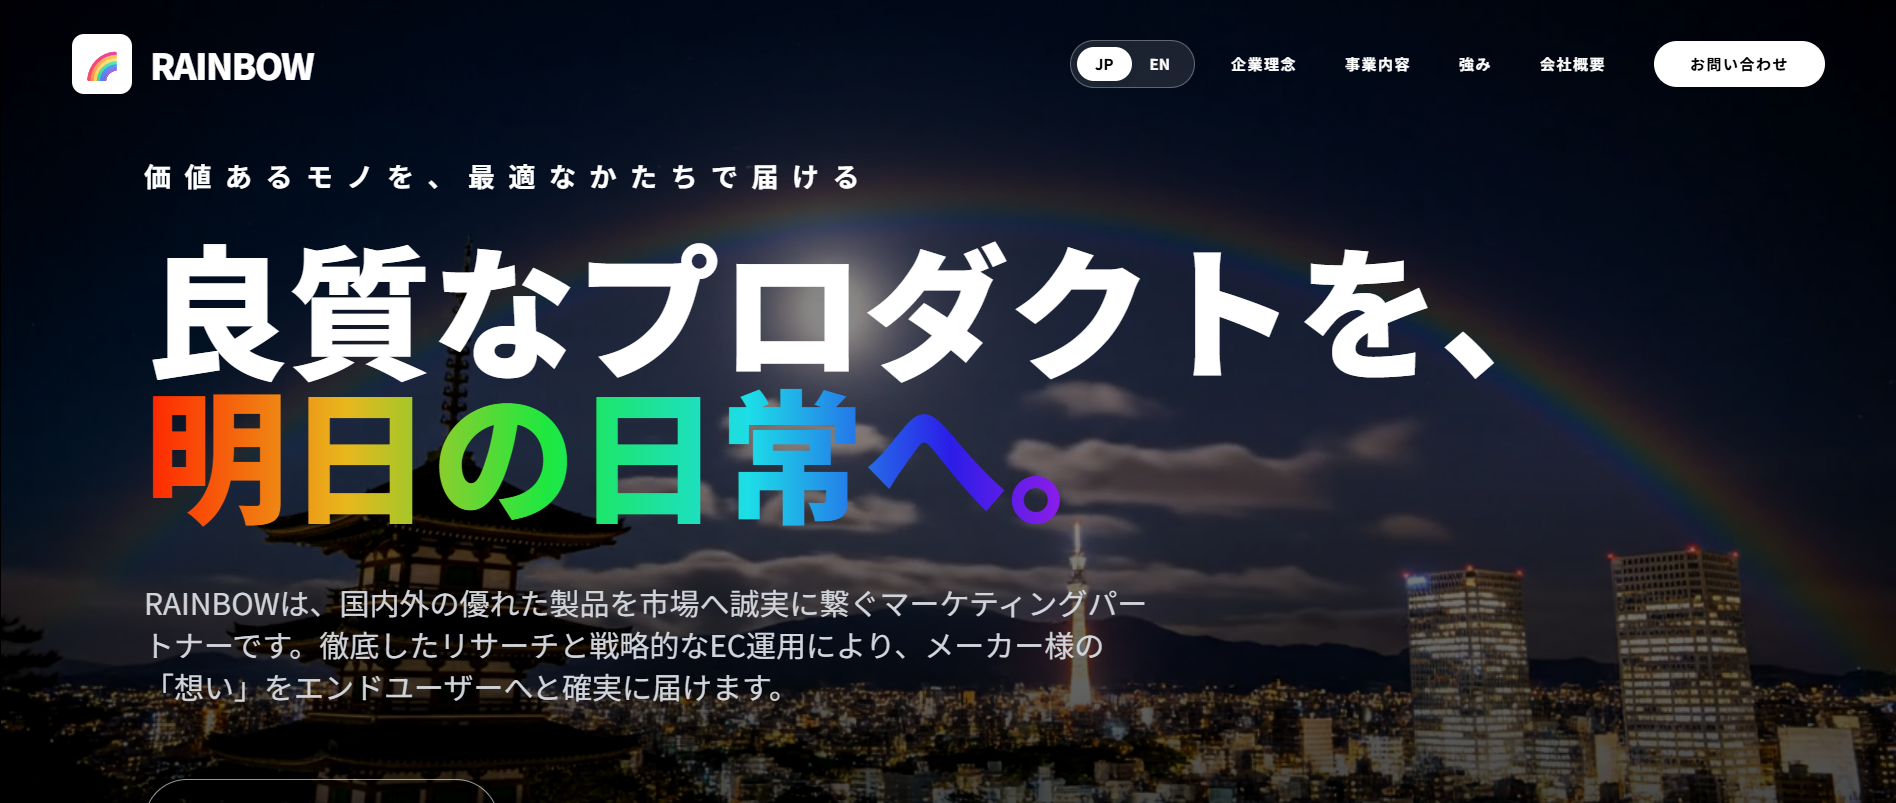
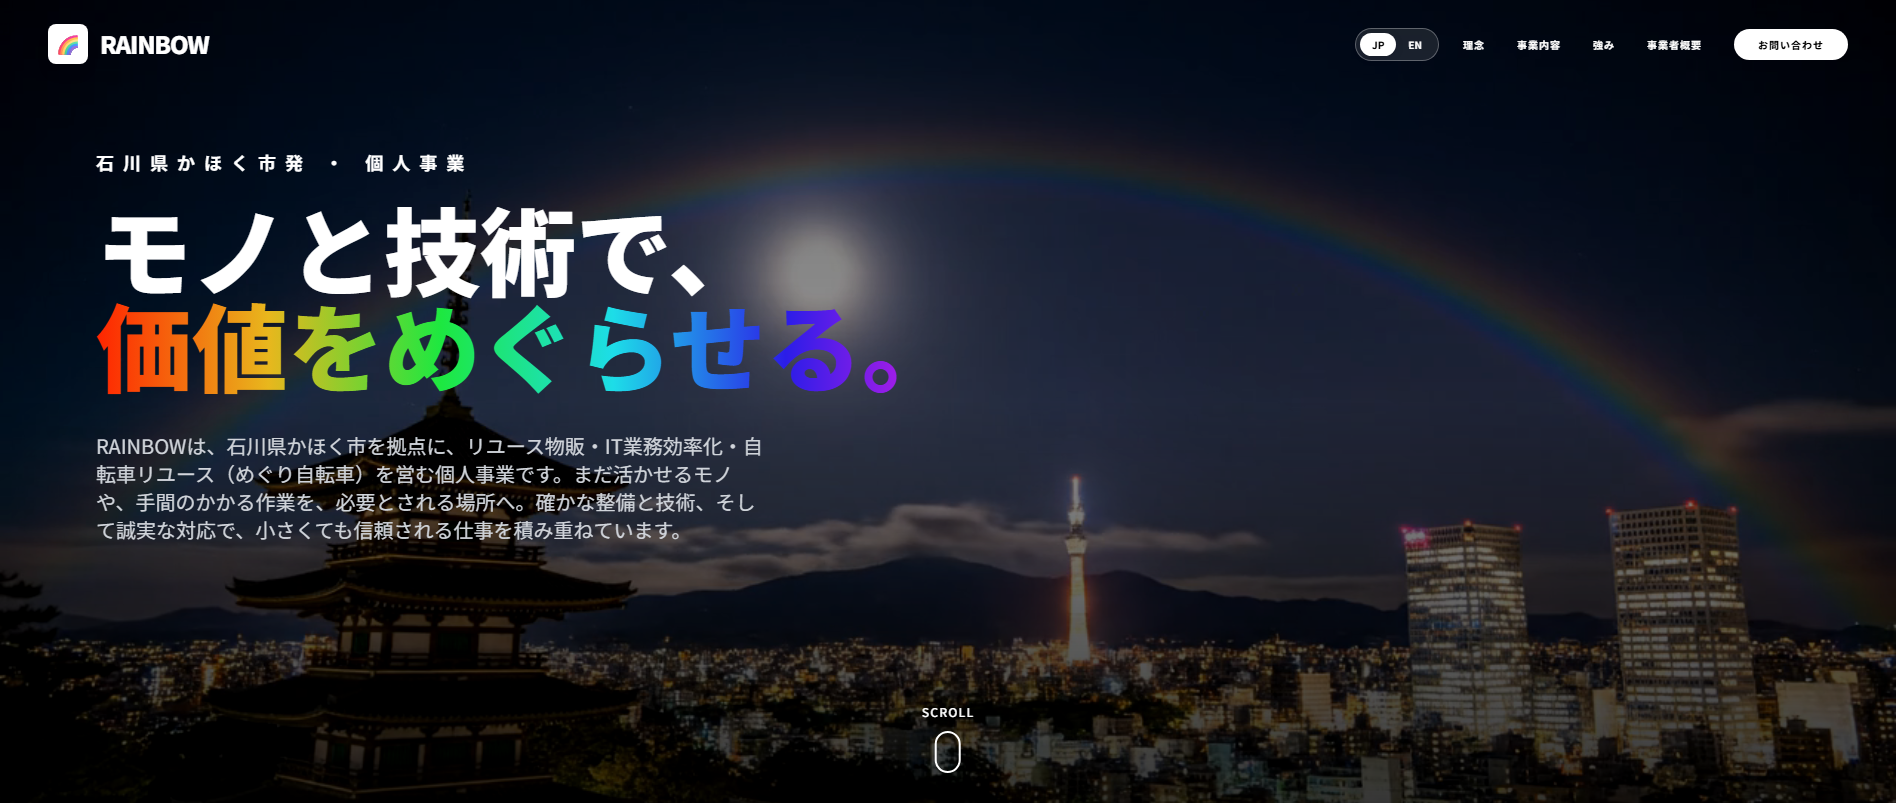
実績⑤を実運用中のRAINBOWコーポレートサイトとして更新（文言・スクリーンショット差し替え）

diff --git a/index.html b/index.html
@@ -343,9 +343,9 @@
           </div>
         </div>
 
-        <!-- 実績⑤ RAINBOW合同会社HP（公開済み） -->
+        <!-- 実績⑤ RAINBOWコーポレートサイト（運用中） -->
         <div class="work-card soft-card fade-in rounded-2xl overflow-hidden">
-          <img src="images/work-rainbow-hp.png" alt="RAINBOW合同会社 コーポレートサイト">
+          <img src="images/work-rainbow-hp.png" alt="RAINBOW コーポレートサイト">
           <div class="p-6">
             <div class="flex flex-wrap gap-2 mb-3">
               <span class="tech-tag">HTML</span>
@@ -354,9 +354,9 @@
               <span class="tech-tag">GSAP</span>
               <span class="tech-tag">TailwindCSS</span>
             </div>
-            <h3 class="text-heading font-bold text-lg mb-2">RAINBOW合同会社 コーポレートサイト</h3>
+            <h3 class="text-heading font-bold text-lg mb-2">RAINBOW コーポレートサイト</h3>
             <p class="text-sub text-sm leading-relaxed mb-4">
-              架空のEC事業会社のコーポレートサイト。GSAPによるイントロアニメーション・日英切替・スクロールリビール・お問い合わせフォームを実装。
+              屋号RAINBOWとして運営する物販・IT・自転車リユース事業の大元ページ。GSAPによるイントロアニメーション・日英切替・スクロールリビールを実装。実際に運用中のコーポレートサイト。
             </p>
             <a href="https://wilier300227-oss.github.io/rainbow-company-hp/"
                target="_blank"
